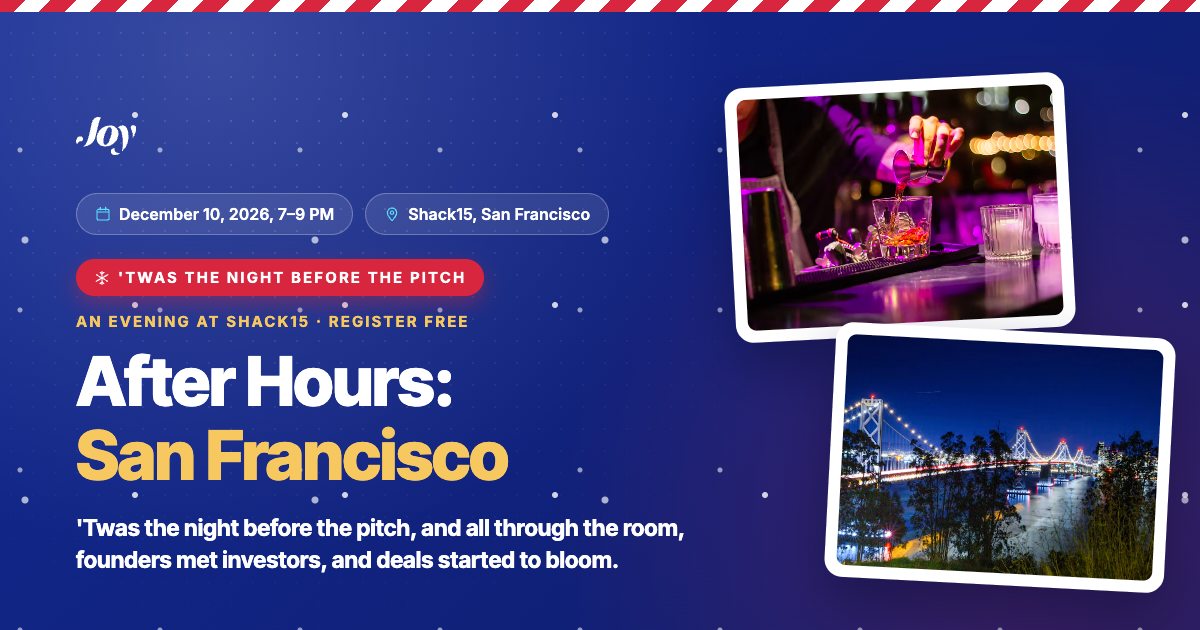
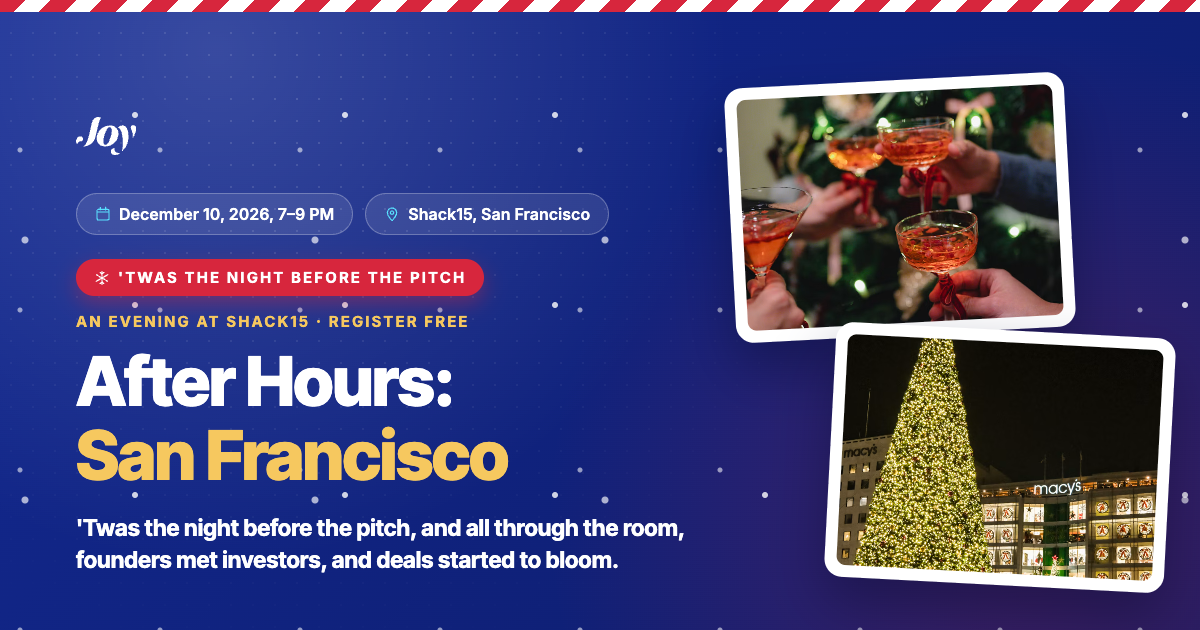
Add holiday photos and fireside chat focus to After Hours: SF
Swap the gallery, vibe polaroids, and OG cards to San Francisco holiday
shots (Union Square tree, festive toasts). Expand the About description on
both pages to explain the fireside chat's focus and why Joy hosts After
Hours, and add matching FAQs.

Changed region(s): [[0.6167, 0.1206, 0.9867, 0.9349]]

diff --git a/after-hours-sf.html b/after-hours-sf.html
@@ -738,8 +738,8 @@
         <div>
           <span class="eyebrow">About the event</span>
           <h2 class="section-title">An evening built for the Bay Area founder crowd.</h2>
-          <p>After Hours: San Francisco brings together founders, operators, and investors at <a href="https://www.shack15.com" target="_blank" rel="noopener" style="color:var(--blue);font-weight:600;">Shack15</a>, the Ferry Building's community hub for entrepreneurs, for an evening of cocktails and conversation. The night centers on a founder fireside chat, followed by open networking in a relaxed, high-end setting.</p>
-          <p>As a sponsor, your brand is woven into the evening itself: signage and branding on-site, a moment in front of the room, and direct face time with attendees who don't usually take a cold pitch.</p>
+          <p>After Hours: San Francisco brings together founders, operators, and investors at <a href="https://www.shack15.com" target="_blank" rel="noopener" style="color:var(--blue);font-weight:600;">Shack15</a>, the Ferry Building's community hub for entrepreneurs, for an evening of cocktails and conversation. Fundraising usually gets talked about after the fact, so we wanted the real conversation: a founder and an investor on stage for an honest fireside chat about how a round came together, what investors look for, and what each side wishes they'd known. Open networking follows in a relaxed, high-end setting.</p>
+          <p>Joy plans corporate events year-round, and After Hours is where that work gets personal: a small, curated room where the brands backing the night meet the founders, operators, and investors they want to know. As a sponsor, your brand is woven into the evening itself: signage and branding on-site, a moment in front of the room, and direct face time with attendees who don't usually take a cold pitch.</p>
         </div>
         <div class="detail-card">
           <div class="detail-row">
@@ -814,7 +814,7 @@
           <div class="agenda-time">7:30&ndash;8:00 PM</div>
           <div>
             <div class="agenda-title">Founder fireside chat</div>
-            <div class="agenda-desc">The stories behind the biggest rounds in the room, told by founders and the investors who wrote the cheques.</div>
+            <div class="agenda-desc">A founder and an investor on stage for an honest conversation about raising money: how the round came together, what investors look for, and what each side wishes they'd known.</div>
           </div>
         </div>
         <div class="agenda-item">
@@ -863,19 +863,19 @@
     <div class="wrap">
       <span class="eyebrow">The setting</span>
       <h2 class="section-title">San Francisco, all lit up.</h2>
-      <p class="gallery-intro">The Embarcadero, the Bay Bridge, and a skyline worth lingering over.</p>
+      <p class="gallery-intro">A giant Union Square tree, the Embarcadero waterfront, and a city that does the holidays right.</p>
       <div class="event-gallery">
         <figure class="gallery-item tall">
-          <img src="https://images.unsplash.com/photo-1577829498563-785a4ba91c96?auto=format&fit=crop&w=1200&q=80" alt="The Bay Bridge at dusk over San Francisco Bay" loading="lazy">
-          <figcaption>The Bay Bridge at dusk</figcaption>
+          <img src="https://images.unsplash.com/photo-1765956004324-cbe9aa79838a?auto=format&fit=crop&w=1200&q=80" alt="The giant Christmas tree outside Macy's in Union Square at night" loading="lazy">
+          <figcaption>Union Square, all aglow</figcaption>
         </figure>
         <figure class="gallery-item">
           <img src="https://images.unsplash.com/photo-1683949805549-631f9cb8740f?auto=format&fit=crop&w=900&q=80" alt="The Ferry Building and Embarcadero waterfront at dusk" loading="lazy">
           <figcaption>The Ferry Building, on the Embarcadero</figcaption>
         </figure>
         <figure class="gallery-item">
-          <img src="https://images.unsplash.com/photo-1672279410716-c676739163e9?auto=format&fit=crop&w=900&q=80" alt="The San Francisco skyline at dusk" loading="lazy">
-          <figcaption>The city skyline after dark</figcaption>
+          <img src="https://images.unsplash.com/photo-1576764894677-aac83a1d285e?auto=format&fit=crop&w=900&q=80" alt="Union Square and its holiday tree from above" loading="lazy">
+          <figcaption>The Union Square tree and ice rink</figcaption>
         </figure>
       </div>
     </div>
@@ -965,6 +965,14 @@
       <span class="eyebrow">FAQs</span>
       <h2 class="section-title">Questions, answered.</h2>
       <div class="faq-card" id="faq-card">
+        <div class="faq-item">
+          <button class="faq-q" type="button">What is the fireside chat about?<span class="plus">+</span></button>
+          <div class="faq-a"><p>Fundraising, from both sides of the table. A founder and an investor talk through how a round actually came together, what investors look for, and what each side wishes they'd known. It's a conversation, not a pitch session, so expect candid answers.</p></div>
+        </div>
+        <div class="faq-item">
+          <button class="faq-q" type="button">Why is Joy hosting After Hours?<span class="plus">+</span></button>
+          <div class="faq-a"><p>Joy plans corporate events year-round and connects them with sponsors. After Hours is a smaller, more personal format: an evening where the brands backing the night meet founders, operators, and investors without a cold pitch. The series also runs in London.</p></div>
+        </div>
         <div class="faq-item">
           <button class="faq-q" type="button">What happens after I apply to sponsor?<span class="plus">+</span></button>
           <div class="faq-a"><p>At the end of the form, you'll schedule a demo to talk through all the logistics of sponsoring. From there, we'll send over an agreement and get you prepared for the event.</p></div>

diff --git a/after-hours-sf-attendees.html b/after-hours-sf-attendees.html
@@ -580,8 +580,8 @@
         <div>
           <span class="eyebrow">About the event</span>
           <h2 class="section-title">An evening built for the Bay Area founder crowd.</h2>
-          <p>After Hours: San Francisco brings together founders, operators, and investors at <a href="https://www.shack15.com" target="_blank" rel="noopener" style="color:var(--blue);font-weight:600;">Shack15</a>, the Ferry Building's community hub for entrepreneurs, for an evening of cocktails and conversation. The night centers on a founder fireside chat, followed by open networking in a relaxed, high-end setting.</p>
-          <p>Come for the stories behind the biggest rounds in the room, stay for the conversations after. Doors open at 7:00 PM and the night wraps by 9:00 PM.</p>
+          <p>After Hours: San Francisco brings together founders, operators, and investors at <a href="https://www.shack15.com" target="_blank" rel="noopener" style="color:var(--blue);font-weight:600;">Shack15</a>, the Ferry Building's community hub for entrepreneurs, for an evening of cocktails and conversation. Fundraising usually gets talked about after the fact, so we wanted the real conversation: a founder and an investor on stage for an honest fireside chat about how a round came together, what investors look for, and what each side wishes they'd known. Open networking follows in a relaxed, high-end setting.</p>
+          <p>After Hours is Joy's way of bringing the founder community together, with sponsors helping make the evening possible. Come for the stories behind the biggest rounds in the room, stay for the conversations after. Doors open at 7:00 PM and the night wraps by 9:00 PM.</p>
         </div>
         <div class="detail-card">
           <div class="detail-row">
@@ -612,16 +612,16 @@
       <p class="band-intro">Cocktails, a fireside chat, and the people worth meeting, in a relaxed setting at the Ferry Building.</p>
       <div class="vibe-grid">
         <figure class="polaroid">
-          <img src="https://images.unsplash.com/photo-1566417713940-fe7c737a9ef2?auto=format&fit=crop&w=800&q=80" alt="A bartender pouring a cocktail" loading="lazy">
-          <figcaption>Cocktails and conversation</figcaption>
+          <img src="https://images.unsplash.com/photo-1766471340741-0d126177f697?auto=format&fit=crop&w=800&q=80" alt="Hands clinking cocktail glasses beside a Christmas tree" loading="lazy">
+          <figcaption>Cheers to the season</figcaption>
         </figure>
         <figure class="polaroid">
-          <img src="https://images.unsplash.com/photo-1775163560631-6ff15eb2fa1f?auto=format&fit=crop&w=800&q=80" alt="Guests mingling at an indoor event" loading="lazy">
+          <img src="https://images.unsplash.com/photo-1699730164892-d7c433524ff3?auto=format&fit=crop&w=800&q=80" alt="Friends raising their drinks in a festive toast" loading="lazy">
           <figcaption>Great company</figcaption>
         </figure>
         <figure class="polaroid">
-          <img src="https://images.unsplash.com/photo-1768369521502-3e8550df2022?auto=format&fit=crop&w=800&q=80" alt="The Bay Bridge lit up at night" loading="lazy">
-          <figcaption>San Francisco after dark</figcaption>
+          <img src="https://images.unsplash.com/photo-1576764894677-aac83a1d285e?auto=format&fit=crop&w=800&q=80" alt="Union Square and its holiday tree from above" loading="lazy">
+          <figcaption>San Francisco, all lit up</figcaption>
         </figure>
       </div>
     </div>
@@ -678,7 +678,7 @@
           <div class="agenda-time">7:30&ndash;8:00 PM</div>
           <div>
             <div class="agenda-title">Founder fireside chat</div>
-            <div class="agenda-desc">The stories behind the biggest rounds in the room, told by founders and the investors who wrote the cheques.</div>
+            <div class="agenda-desc">A founder and an investor on stage for an honest conversation about raising money: how the round came together, what investors look for, and what each side wishes they'd known.</div>
           </div>
         </div>
         <div class="agenda-item">
@@ -731,6 +731,14 @@
       <span class="eyebrow">FAQs</span>
       <h2 class="section-title">Questions, answered.</h2>
       <div class="faq-card" id="faq-card">
+        <div class="faq-item">
+          <button class="faq-q" type="button">What is the fireside chat about?<span class="plus">+</span></button>
+          <div class="faq-a"><p>Fundraising, from both sides of the table. A founder and an investor talk through how a round actually came together, what investors look for, and what each side wishes they'd known. It's a conversation, not a pitch session, so expect candid answers.</p></div>
+        </div>
+        <div class="faq-item">
+          <button class="faq-q" type="button">Why is Joy hosting this?<span class="plus">+</span></button>
+          <div class="faq-a"><p>Joy plans events year-round, and After Hours is a smaller, more personal format for bringing the founder community together. Sponsors help make the evening possible, which keeps it free to attend. The series also runs in London.</p></div>
+        </div>
         <div class="faq-item">
           <button class="faq-q" type="button">What's the dress code?<span class="plus">+</span></button>
           <div class="faq-a"><p>Festive smart casual. Think a good dinner on the Embarcadero with a little extra sparkle: velvet, a bold holiday sweater, or a tasteful tie with reindeer on it are all welcome. No suit required, but leave the gym kit at home.</p></div>

diff --git a/README.md b/README.md
@@ -142,10 +142,10 @@ For local development: `vercel env pull .env.local` to grab the database env var
   placeholder, so confirm those before this goes live. The event has a "'Twas the Night Before the Pitch" holiday theme (a verse couplet tagline and closing CTA kept deliberately light, with plain headings elsewhere; candy-cane top
   stripe, twinkling lights and falling snow in the heroes, cranberry "Holiday Edition" badge, gold accent
   instead of cyan, festive copy, and holiday-styled OG cards); the effects are pure CSS and respect
-  `prefers-reduced-motion`. The dress-code FAQ now invites festive attire, so confirm that wording. The attendee page's "Register to Attend" CTA still
+  `prefers-reduced-motion`. The dress-code FAQ now invites festive attire, so confirm that wording. The About paragraph on both pages explains the fireside chat's focus (how a round came together, what investors look for, what each side wishes they'd known) and why Joy hosts After Hours, with matching FAQs. That focus is drafted from the existing "stories behind the biggest rounds" framing and the founder/investor lineup, so confirm it matches the real plan, and that sponsors helping keep the event free to attend is accurate. The attendee page's "Register to Attend" CTA still
   points at the external `https://withjoy.com/AfterHours` page (there's no dedicated registration ID like
   London's), so make sure that page shows the December 10 date. The decorative SF photos (Ferry Building,
-  Bay Bridge, skyline, cocktails, crowd) are Unsplash stock loaded by photo ID, except the Golden Gate hero,
+  Union Square holiday tree, festive toasts) are Unsplash stock loaded by photo ID, except the Golden Gate hero,
   which is the Cloudinary photo originally supplied for this event.
 - The London event pages' decorative photos (hero, gallery, "vibe" strip, attendee header) are London stock
   shots from Unsplash, loaded straight from `images.unsplash.com` by photo ID (see the `<img>` tags in
